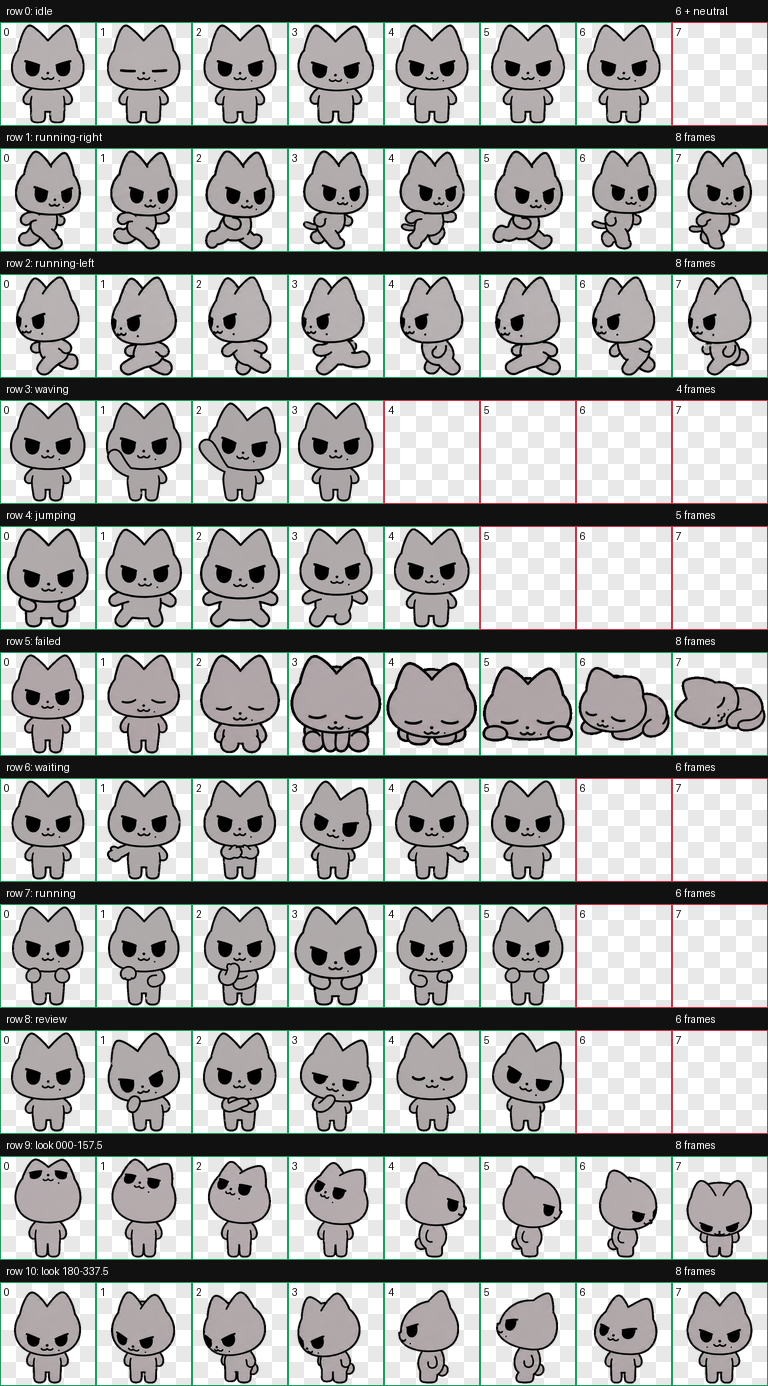
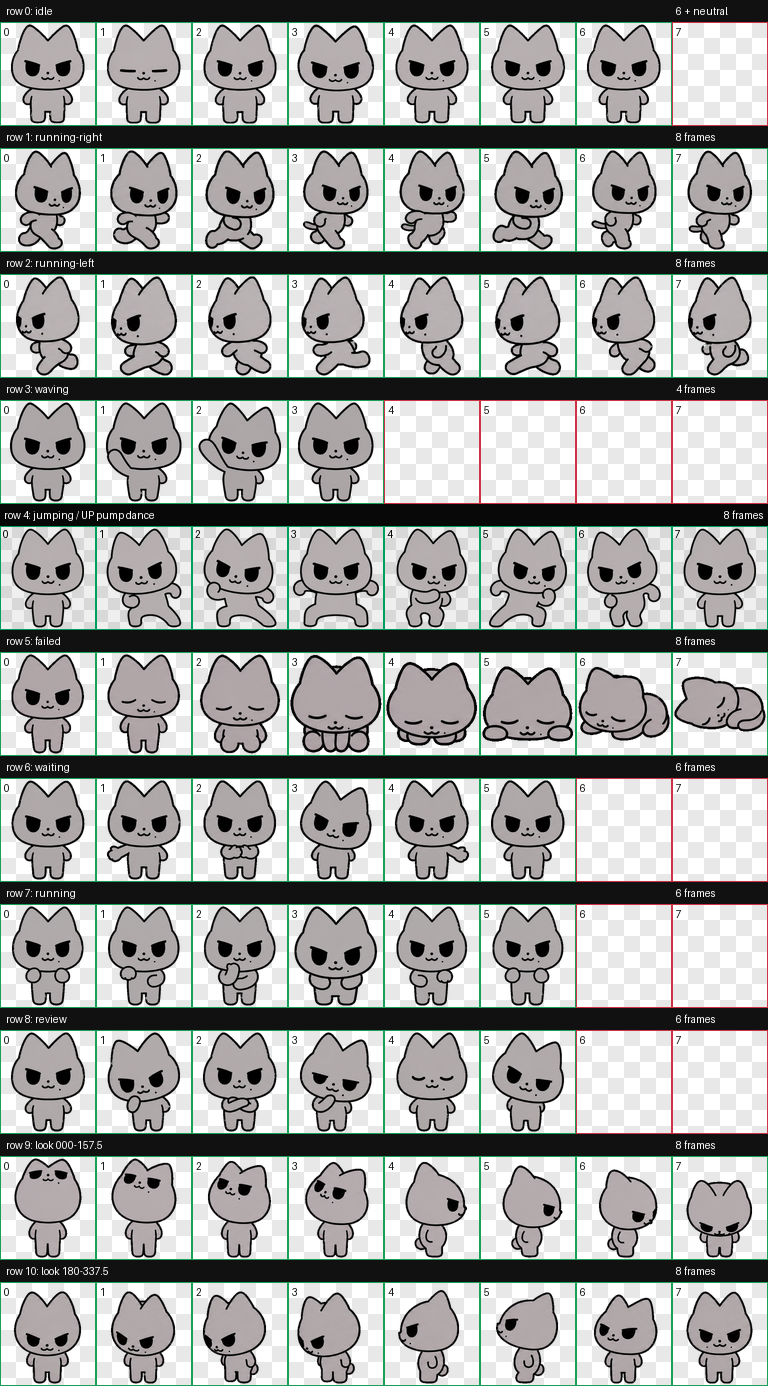
Replace jump with UP-inspired pump dance

Changed region(s): [[0.0, 0.3723, 1.0, 0.4654]]

diff --git a/README.md b/README.md
@@ -190,10 +190,14 @@ PowerShell 当前打开的不是正确文件夹。确认窗口所在目录中能
 ## 特性
 
 - Codex Pet v2 图集：1536 × 2288、8 列 × 11 行、RGBA WebP
-- 9 组动画状态：待机、左右跑动、挥手、跳跃、失败、等待、工作中和审核
+- 9 组动画状态：待机、左右跑动、挥手、悬停触发的《UP》灵感泵动舞、失败、等待、工作中和审核
 - 16 个连续观察方向
 - 粗黑描边与简洁灰黑色块，不使用毛绒、摄影或 3D 材质
 - 已通过结构、透明通道、色键残留与方向语义检查
+
+将鼠标悬停在宠物上时，原来的五帧跳跃会改为八帧泵动舞：从微蹲蓄力开始，依次向左右切换重心、展开双肘，再回到自然站姿。双脚始终自然落地，不展示朝向镜头的脚底或肉垫。
+
+![《UP》灵感泵动舞预览](preview/up-dance.gif)
 
 ![动作与方向总览](preview/contact-sheet.png)
 
@@ -207,6 +211,7 @@ preview/
   base-preview.png     标准站姿
   contact-sheet.png    动作与方向总览
   look-directions.png  16 方位复核图
+  up-dance.gif         八帧悬停舞蹈预览
 qa/
   validation.json      自动结构验证报告
   direction-semantics.json
@@ -222,7 +227,7 @@ qa/
 
 ## English
 
-An unofficial Codex desktop pet based on the aespa Karina fan-created character “JUST Big Cat.”
+An unofficial Codex desktop pet based on the aespa Karina fan-created character “JUST Big Cat.” Hovering over the pet triggers an eight-frame, “UP”-inspired chibi pump dance in place of the original jump.
 
 Download and extract the [project ZIP](https://github.com/Au-Cu/just-big-cat-codex-pet/archive/refs/heads/main.zip). On Windows, open PowerShell in the extracted folder and run:
 

diff --git a/NOTICE.md b/NOTICE.md
@@ -4,4 +4,6 @@ This is an unofficial, fan-made Codex Pet project. It is not affiliated with, en
 
 “Codex” and “OpenAI” may be trademarks of OpenAI. “JUST猫”, “JUST大猫”, related names, and any recognizable pre-existing character elements may belong to their respective rights holders.
 
+The hover animation contains an original, heavily simplified chibi movement sequence inspired by the performance language associated with Karina’s “UP.” This project does not include or license any music, recording, performance footage, or other official media.
+
 The repository licenses cover only the original contributions that the repository contributors are legally able to license. No rights in third-party names, trademarks, characters, or other pre-existing protected material are granted.

diff --git a/ASSET-LICENSE.md b/ASSET-LICENSE.md
@@ -4,6 +4,7 @@ Except where third-party rights are identified in [`NOTICE.md`](NOTICE.md), the 
 
 - `pet/spritesheet.webp`
 - `preview/*.png`
+- `preview/*.gif`
 
 are licensed under the [Creative Commons Attribution 4.0 International License](https://creativecommons.org/licenses/by/4.0/).
 
